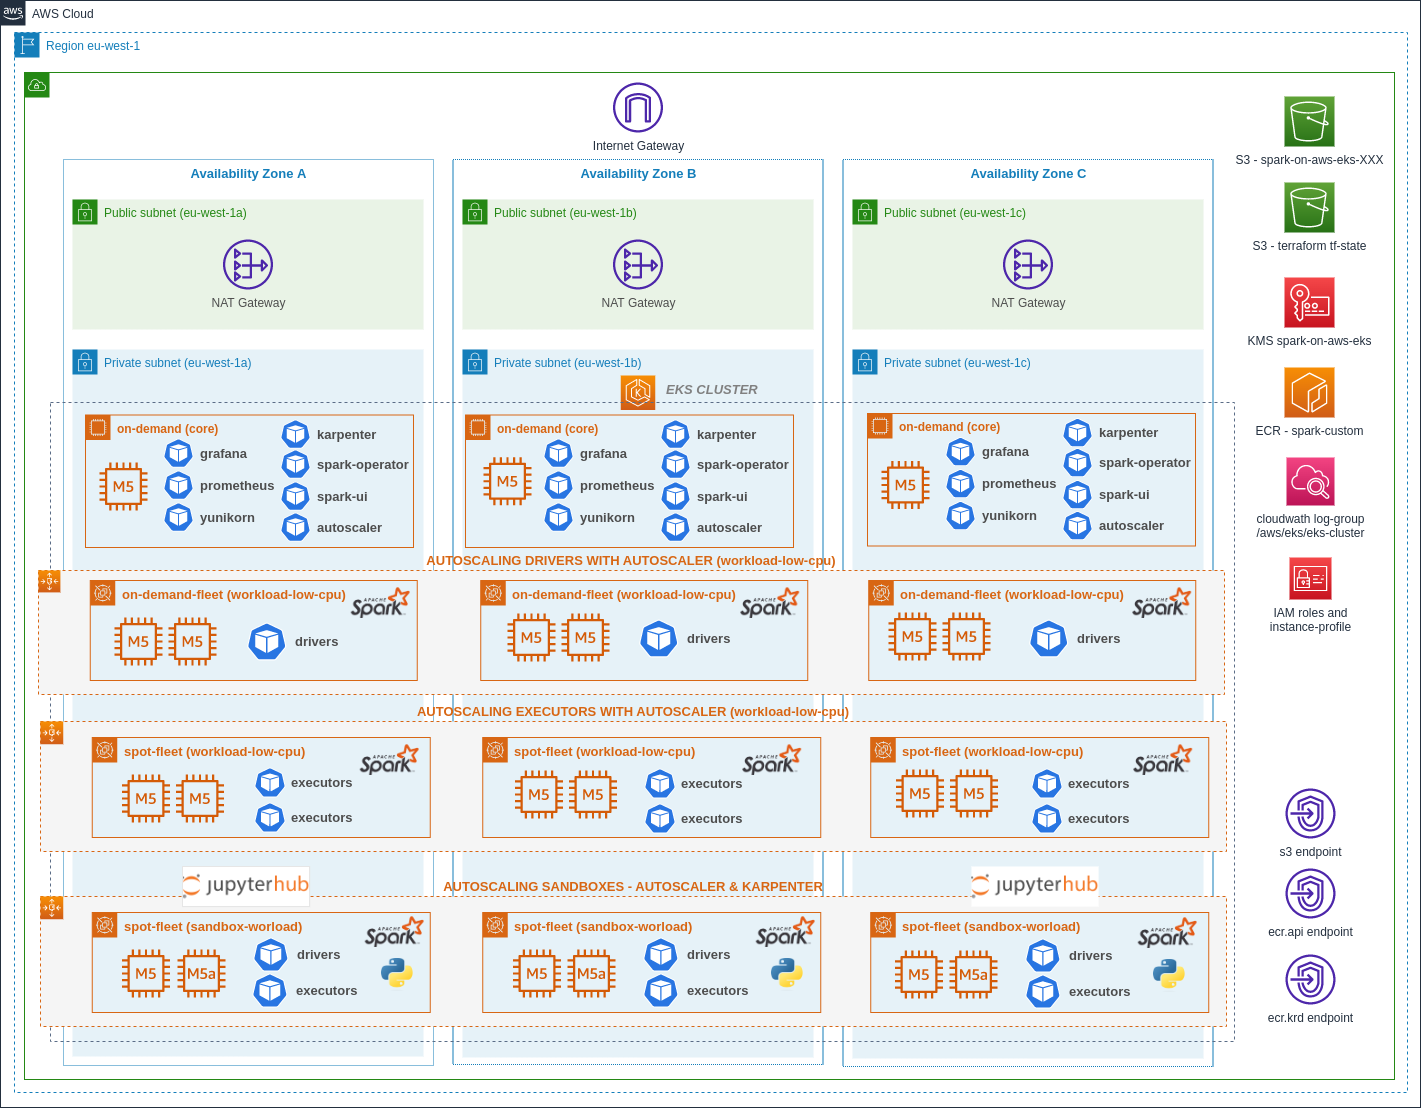
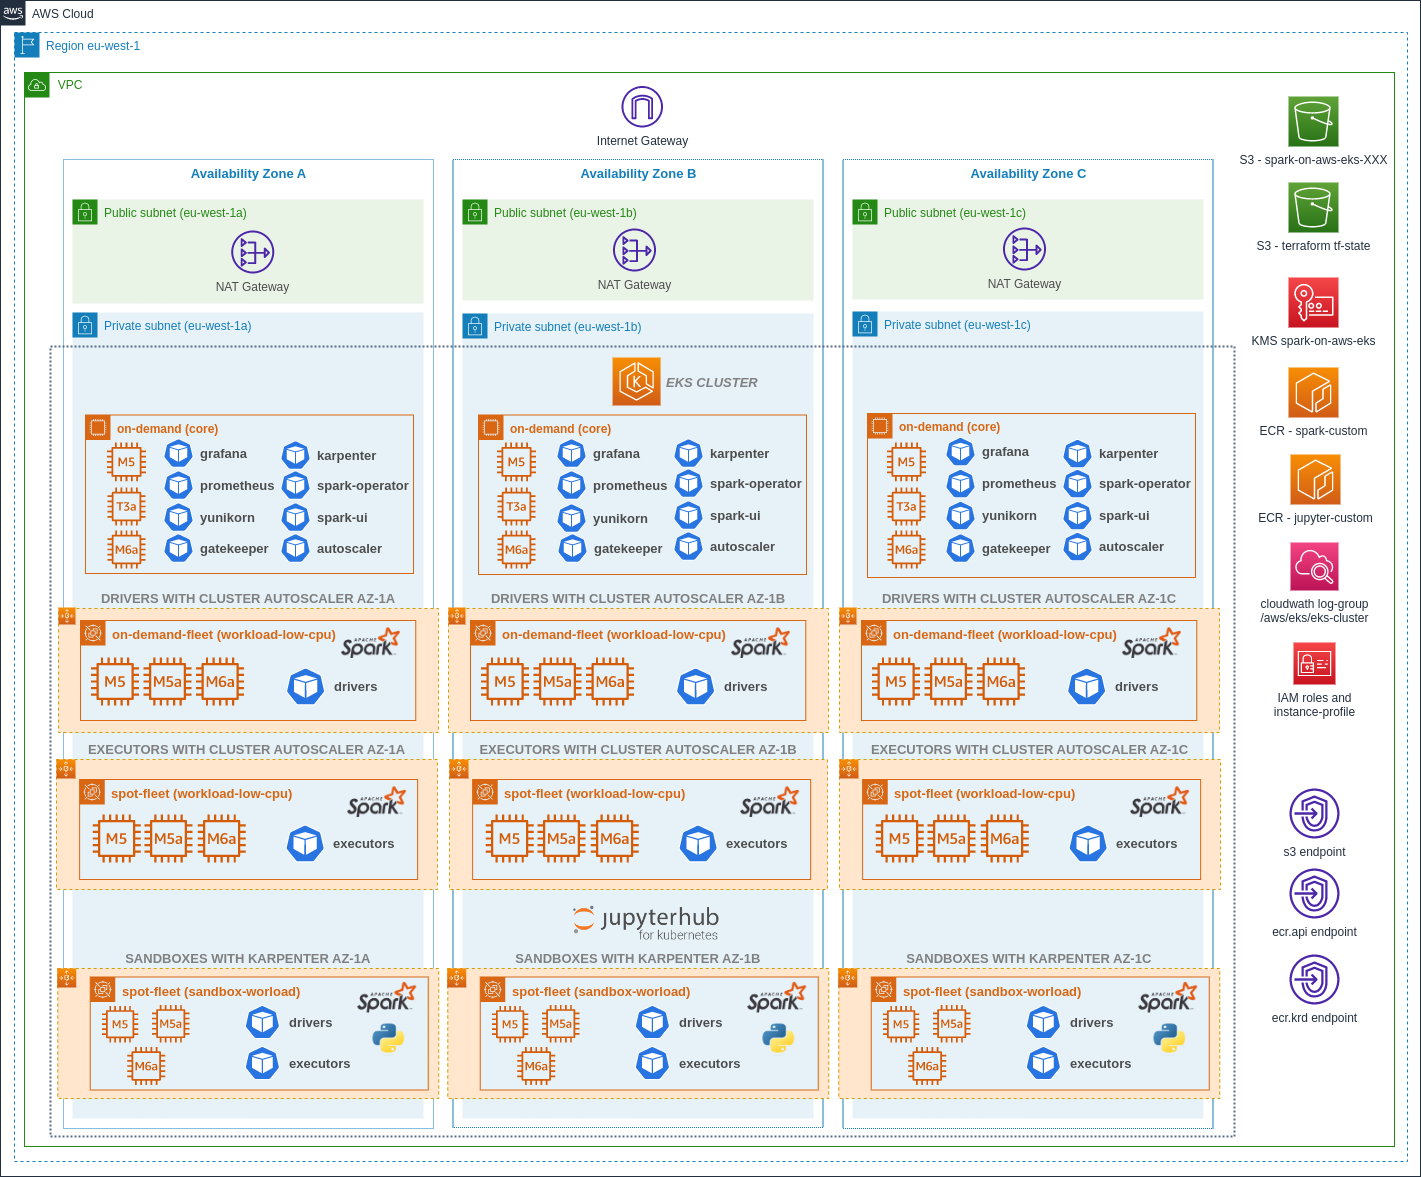
docs: added new images

Changed region(s): [[0.031, 0.0614, 0.9909, 0.9819], [0.898, 0.6751, 0.9599, 0.9206], [0.0, 0.0, 0.0929, 0.0921]]

diff --git a/README.md b/README.md
@@ -5,12 +5,13 @@
   - [Components](#components)
   - [Architecture - High Level](#architecture---high-level)
   - [Detail of infrastructure](#detail-of-infrastructure)
-  - [How to work Spark-operator with Yunikorn and Cluster autoscaler](#how-to-work-spark-operator-with-yunikorn-and-cluster-autoscaler)
+  - [Scheduling](#scheduling)
     - [How to work Yunikon Gang Scheduling](#how-to-work-yunikon-gang-scheduling)
+  - [Scaling pods: cluster autoscaler vs Karpenter](#scaling-pods-cluster-autoscaler-vs-karpenter)
+  - [How to work Spark-operator with Yunikorn and Cluster autoscaler](#how-to-work-spark-operator-with-yunikorn-and-cluster-autoscaler)
     - [Configurating spark workloads](#configurating-spark-workloads)
     - [Configurating quotes](#configurating-quotes)
-  - [How to work JupyterHub with spark-operator and Karpenter](#how-to-work-jupyterhub-with-spark-operator-and-karpenter)
-  - [Scaling pods: cluster autoscaler vs Karpenter](#scaling-pods-cluster-autoscaler-vs-karpenter)
+  - [How to work JupyterHub with Karpenter](#how-to-work-jupyterhub-with-karpenter)
   - [Testing the solution](#testing-the-solution)
   - [Monitoring the solution](#monitoring-the-solution)
   - [Challenges Spark on Kubernetes](#challenges-spark-on-kubernetes)
@@ -21,8 +22,8 @@
 
 * Kubernetes EKS v1.23
 * Spark v3.2.0
-* Yunikorn v0.12.2
-* JupyterHub v1.2.0
+* Yunikorn v1.1.0
+* JupyterHub v2.0.0
 * Grafana v6.26.2
 * Prometheus v15.8.1
 * Spark-operator v1.1.14
@@ -38,21 +39,25 @@
 
 ## Detail of infrastructure
 
+## Scheduling
+
+### How to work Yunikon Gang Scheduling
+
+## Scaling pods: cluster autoscaler vs Karpenter
 
 ## How to work Spark-operator with Yunikorn and Cluster autoscaler
 
 ![](/docs/images/diagram-spark-operator-karpenter.png)
 
-### How to work Yunikon Gang Scheduling
+
 
 ### Configurating spark workloads
 
 ### Configurating quotes
 
-## How to work JupyterHub with spark-operator and Karpenter
+## How to work JupyterHub with Karpenter
 
-
-## Scaling pods: cluster autoscaler vs Karpenter
+![](/docs/images/diagram-jupyterhub-karpenter.png)
 
 
 ## Testing the solution
